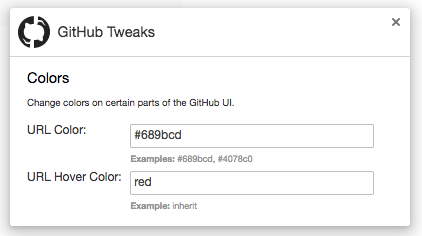
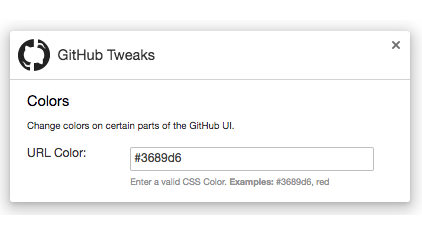
update options screenshot.

diff --git a/readme.md b/readme.md
@@ -7,7 +7,7 @@
 I was inspired to build this extension so that GitHub's new blue url color would
 **stop burning holes in my eyes**, and setting my monitor on fire. :eyes: :fire: :desktop_computer: :fire:
 
-In the options, you can choose the url color, and the hover color.
+In the options, you can choose the URL color that you want to use on GitHub.
 
 ![](options-screenshot.png)
 
@@ -17,6 +17,12 @@ In the options, you can choose the url color, and the hover color.
 
 Install [manually](http://superuser.com/a/247654/6877). Soon it will be available
 on the Chrome Web Store.
+
+## Roadmap
+
+This extension was primarily built to save my eyes from GitHub's new blue URL color,
+but in the future I may add more GitHub tweaks. Please open issues if you would
+like to make feature suggestions.
 
 ## Contributions
 
